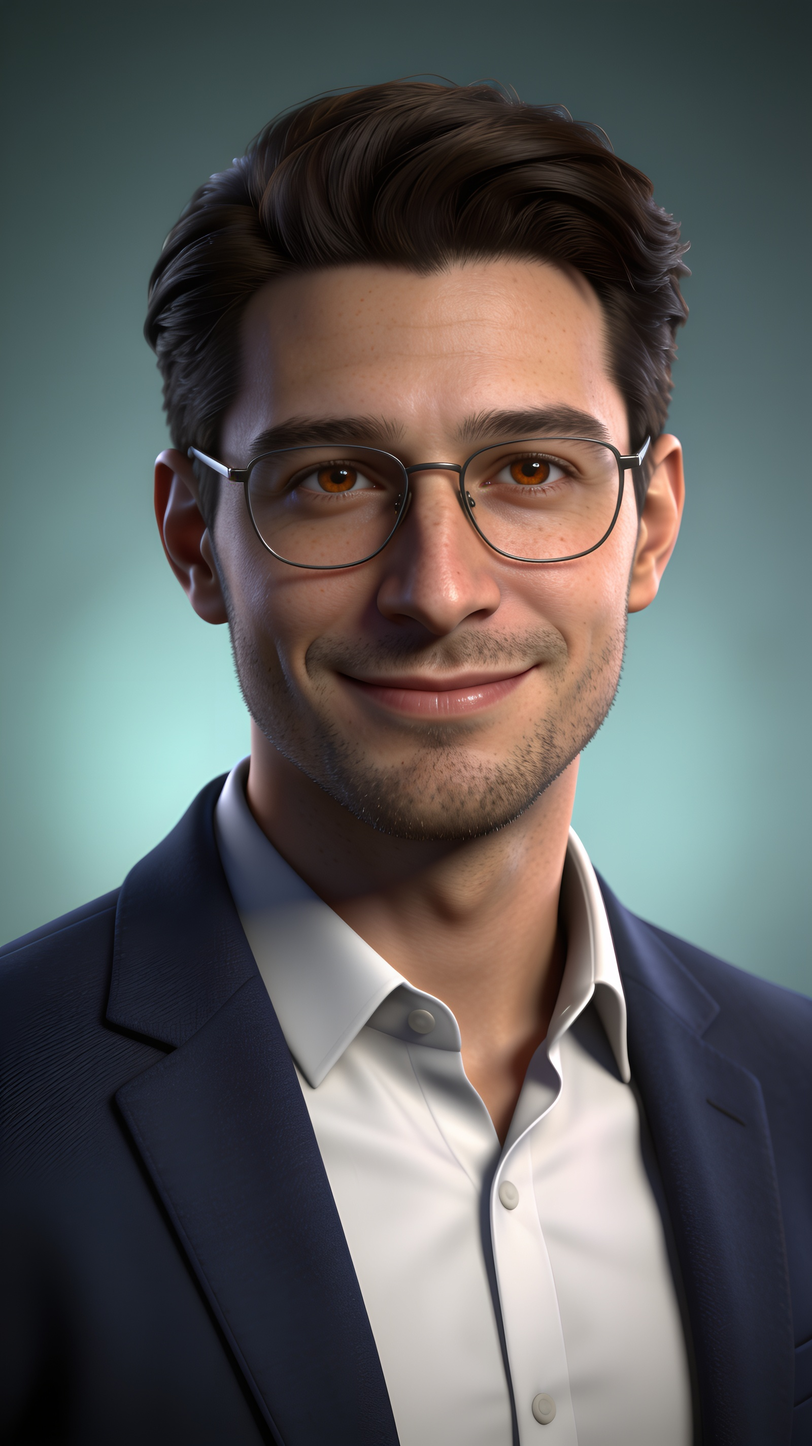
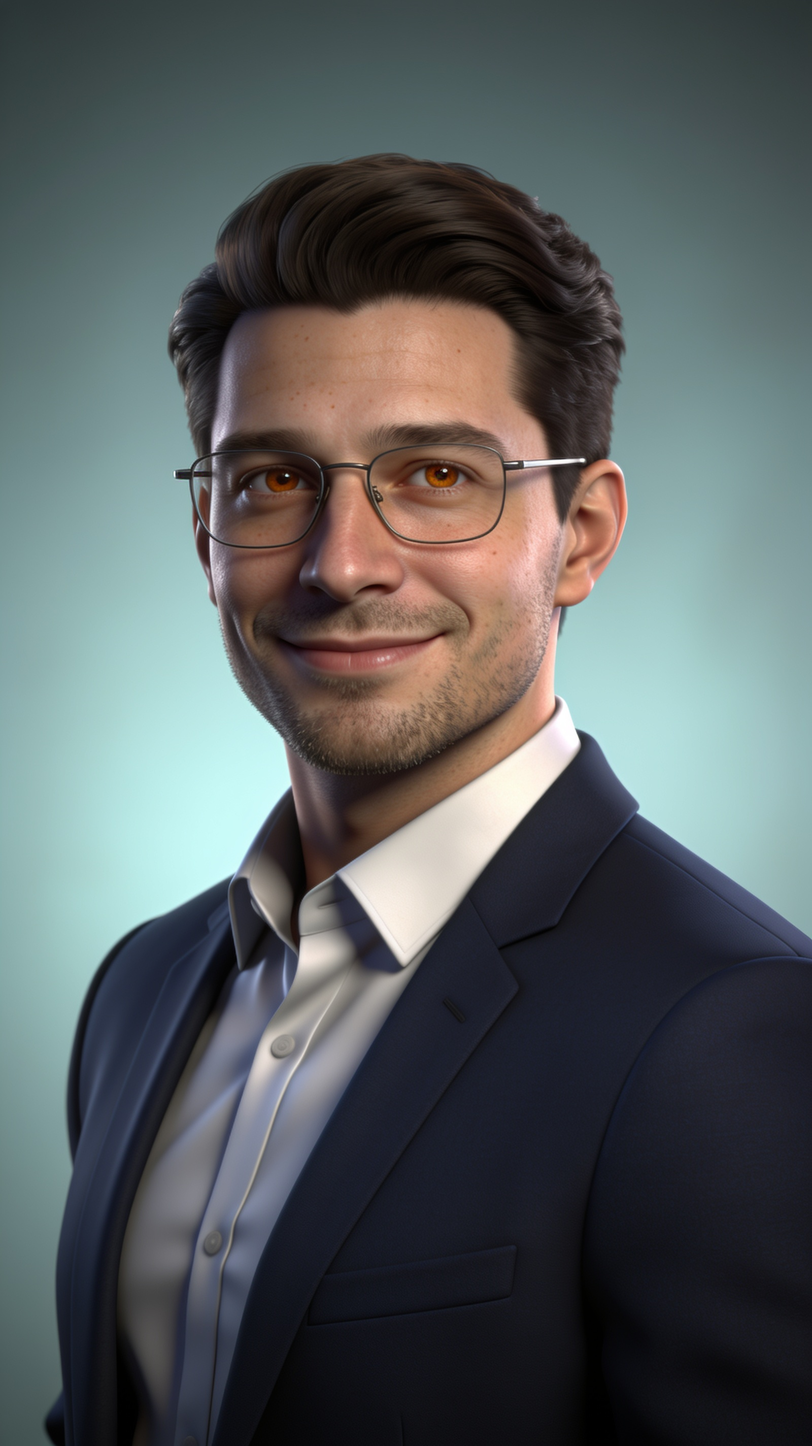
Réparer « Voir un exemple », placer la démo au point de conversion
Le bouton « Voir un exemple » du héros pointait vers #exemple — une
ancre qui n'existait dans aucune page. Le clic ne faisait donc
strictement rien depuis le début.

La démonstration jouée devient cette ancre, et remonte juste après le
héros. Le visiteur vient de lire la promesse ; sa question suivante est
« montre-moi ». C'est là que ça convertit, pas 500 lignes plus bas
après les tarifs, où seuls les plus motivés arrivaient.

L'animation reste — elle tient sa place en attendant les captures
d'écran, qui seront plus parlantes. Le registre `AGENT_VIDEOS` prévoit
déjà une entrée `parcours` pour la vidéo du parcours complet : dès
qu'un fichier y est déposé, il s'affiche sans autre changement.

AVATAR DE LOUIS — « toujours pas centré, on n'en voit qu'un bout ».
Le portrait était cadré trop serré à la source : la tête remplissait
tout le cadre, sans épaules. Aucun recadrage ne pouvait faire
apparaître des pixels absents — deux tentatives l'ont confirmé. Il est
régénéré en plan moyen, tête dans le tiers supérieur et buste visible,
ce qui correspond au cadrage CSS commun aux quinze autres avatars
(objectPosition center 15% + zoom 1.15) au lieu de le contredire.

Claude-Session: https://claude.ai/code/session_01KYYC4erzn6wMhDBSa3ot7k

diff --git a/app/page.tsx b/app/page.tsx
@@ -233,6 +233,34 @@ function HomeKeiroInner() {
         </div>
       </section>
 
+          {/* Démonstration jouée, placée JUSTE APRÈS le héros : le visiteur vient
+              de lire la promesse, sa question suivante est « montre-moi ». C'est
+              l'endroit qui convertit, pas 500 lignes plus bas après les tarifs.
+
+              C'est aussi la cible de « Voir un exemple » dans le héros : ce bouton
+              pointait vers #exemple, une ancre qui n'existait nulle part — le clic
+              ne faisait donc rien du tout.
+
+              Démonstration jouée : un visiteur comprend en 20 secondes ce que
+              fait un agent, sans avoir à s'inscrire ni à lire une page de
+              fonctionnalités. On montre le TRAVAIL, pas l'interface — expliquer
+              où cliquer ne convainc personne d'acheter. */}
+          <div id="exemple" className="max-w-6xl mx-auto mb-10 sm:mb-14 px-1 sm:px-0 scroll-mt-24">
+            <div className="text-center mb-5">
+              <h3 className="text-lg sm:text-2xl font-black text-neutral-900 mb-1 leading-tight">
+                {locale === 'fr' ? 'Concrètement, voilà ce qui se passe' : 'Concretely, here is what happens'}
+              </h3>
+              <p className="text-xs sm:text-sm text-neutral-600 max-w-xl mx-auto px-2">
+                {locale === 'fr'
+                  ? 'Une semaine de travail de Léna, sur une vraie boulangerie. Tu ne fais rien.'
+                  : "A week of Léna's work on a real bakery. You do nothing."}
+              </p>
+            </div>
+            <DemoLive />
+          </div>
+
+
+
       {/* Gradient transition: dark hero → content sections */}
       <div className="h-20 bg-gradient-to-b from-[#0c1a3a] to-transparent" />
 
@@ -582,24 +610,6 @@ function HomeKeiroInner() {
                 {t.home.freeTrialCta || (locale === 'fr' ? 'Essai gratuit 7 jours' : 'Start free trial')}
               </Link>
             </div>
-          </div>
-
-          {/* Démonstration jouée : un visiteur comprend en 20 secondes ce que
-              fait un agent, sans avoir à s'inscrire ni à lire une page de
-              fonctionnalités. On montre le TRAVAIL, pas l'interface — expliquer
-              où cliquer ne convainc personne d'acheter. */}
-          <div className="max-w-6xl mx-auto mb-10 sm:mb-14 px-1 sm:px-0">
-            <div className="text-center mb-5">
-              <h3 className="text-lg sm:text-2xl font-black text-neutral-900 mb-1 leading-tight">
-                {locale === 'fr' ? 'Concrètement, voilà ce qui se passe' : 'Concretely, here is what happens'}
-              </h3>
-              <p className="text-xs sm:text-sm text-neutral-600 max-w-xl mx-auto px-2">
-                {locale === 'fr'
-                  ? 'Une semaine de travail de Léna, sur une vraie boulangerie. Tu ne fais rien.'
-                  : "A week of Léna's work on a real bakery. You do nothing."}
-              </p>
-            </div>
-            <DemoLive />
           </div>
 
           {/* CRÉATEUR AGENTS — detailed roster shown above the pricing grid
